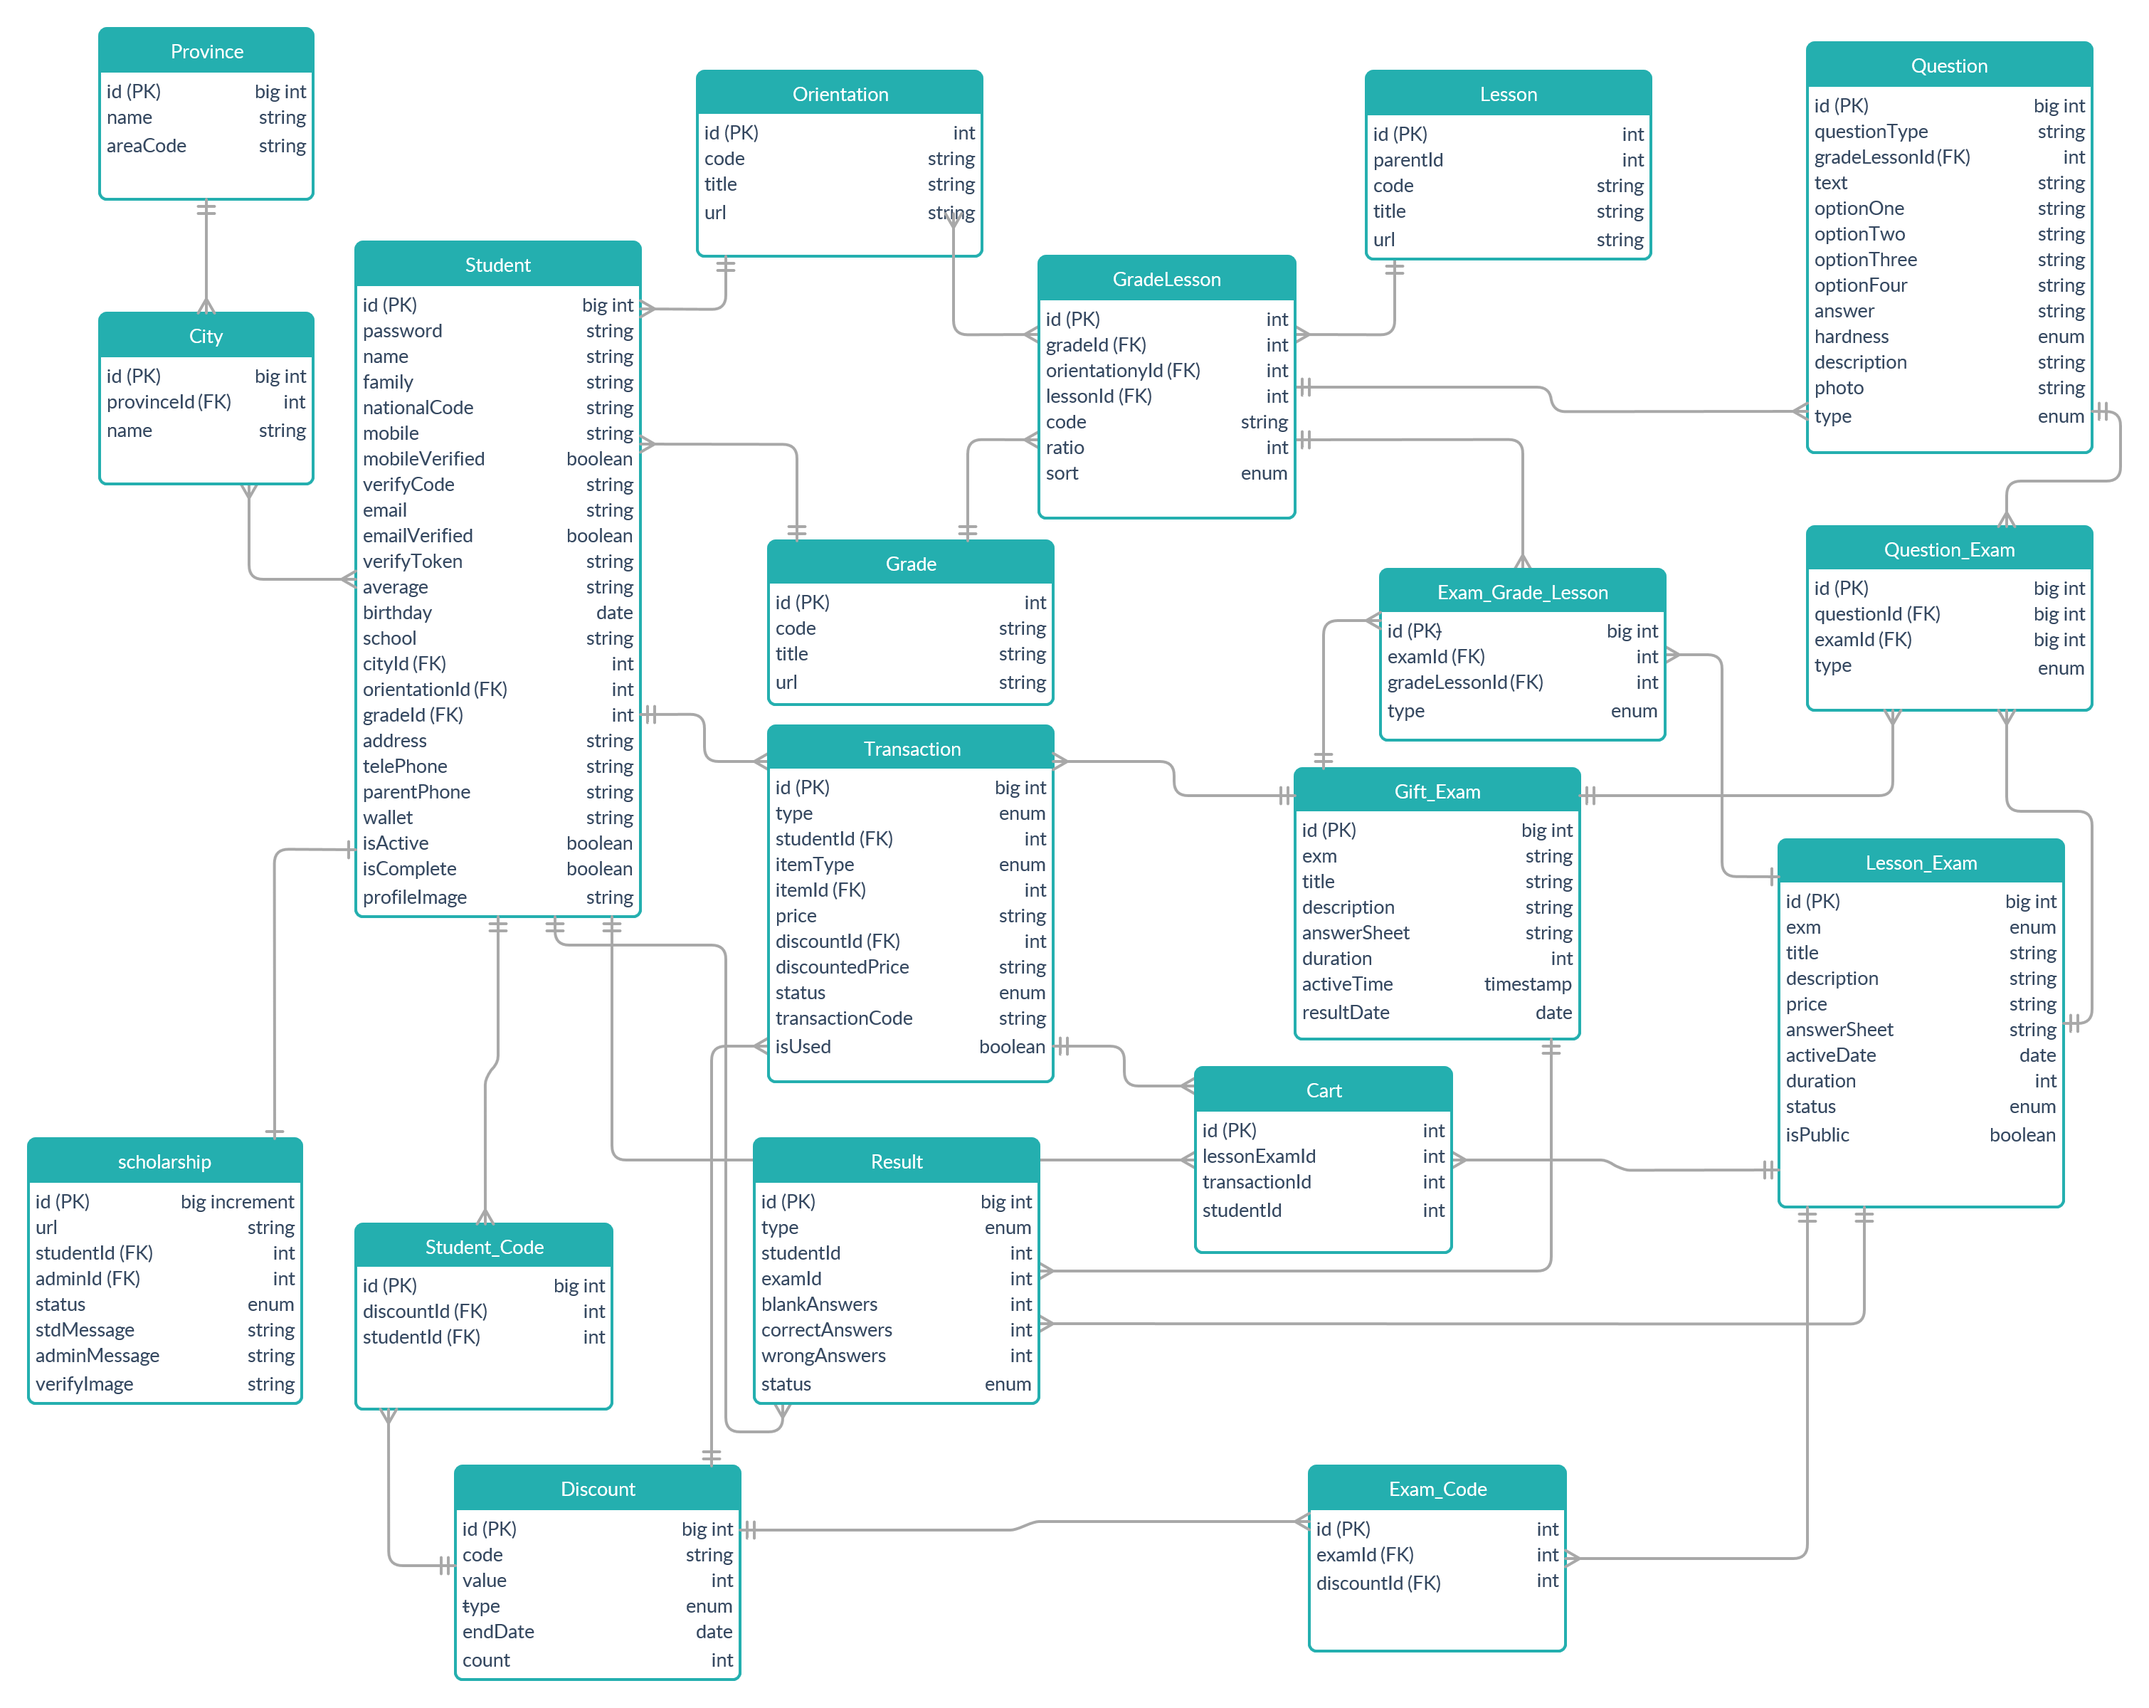
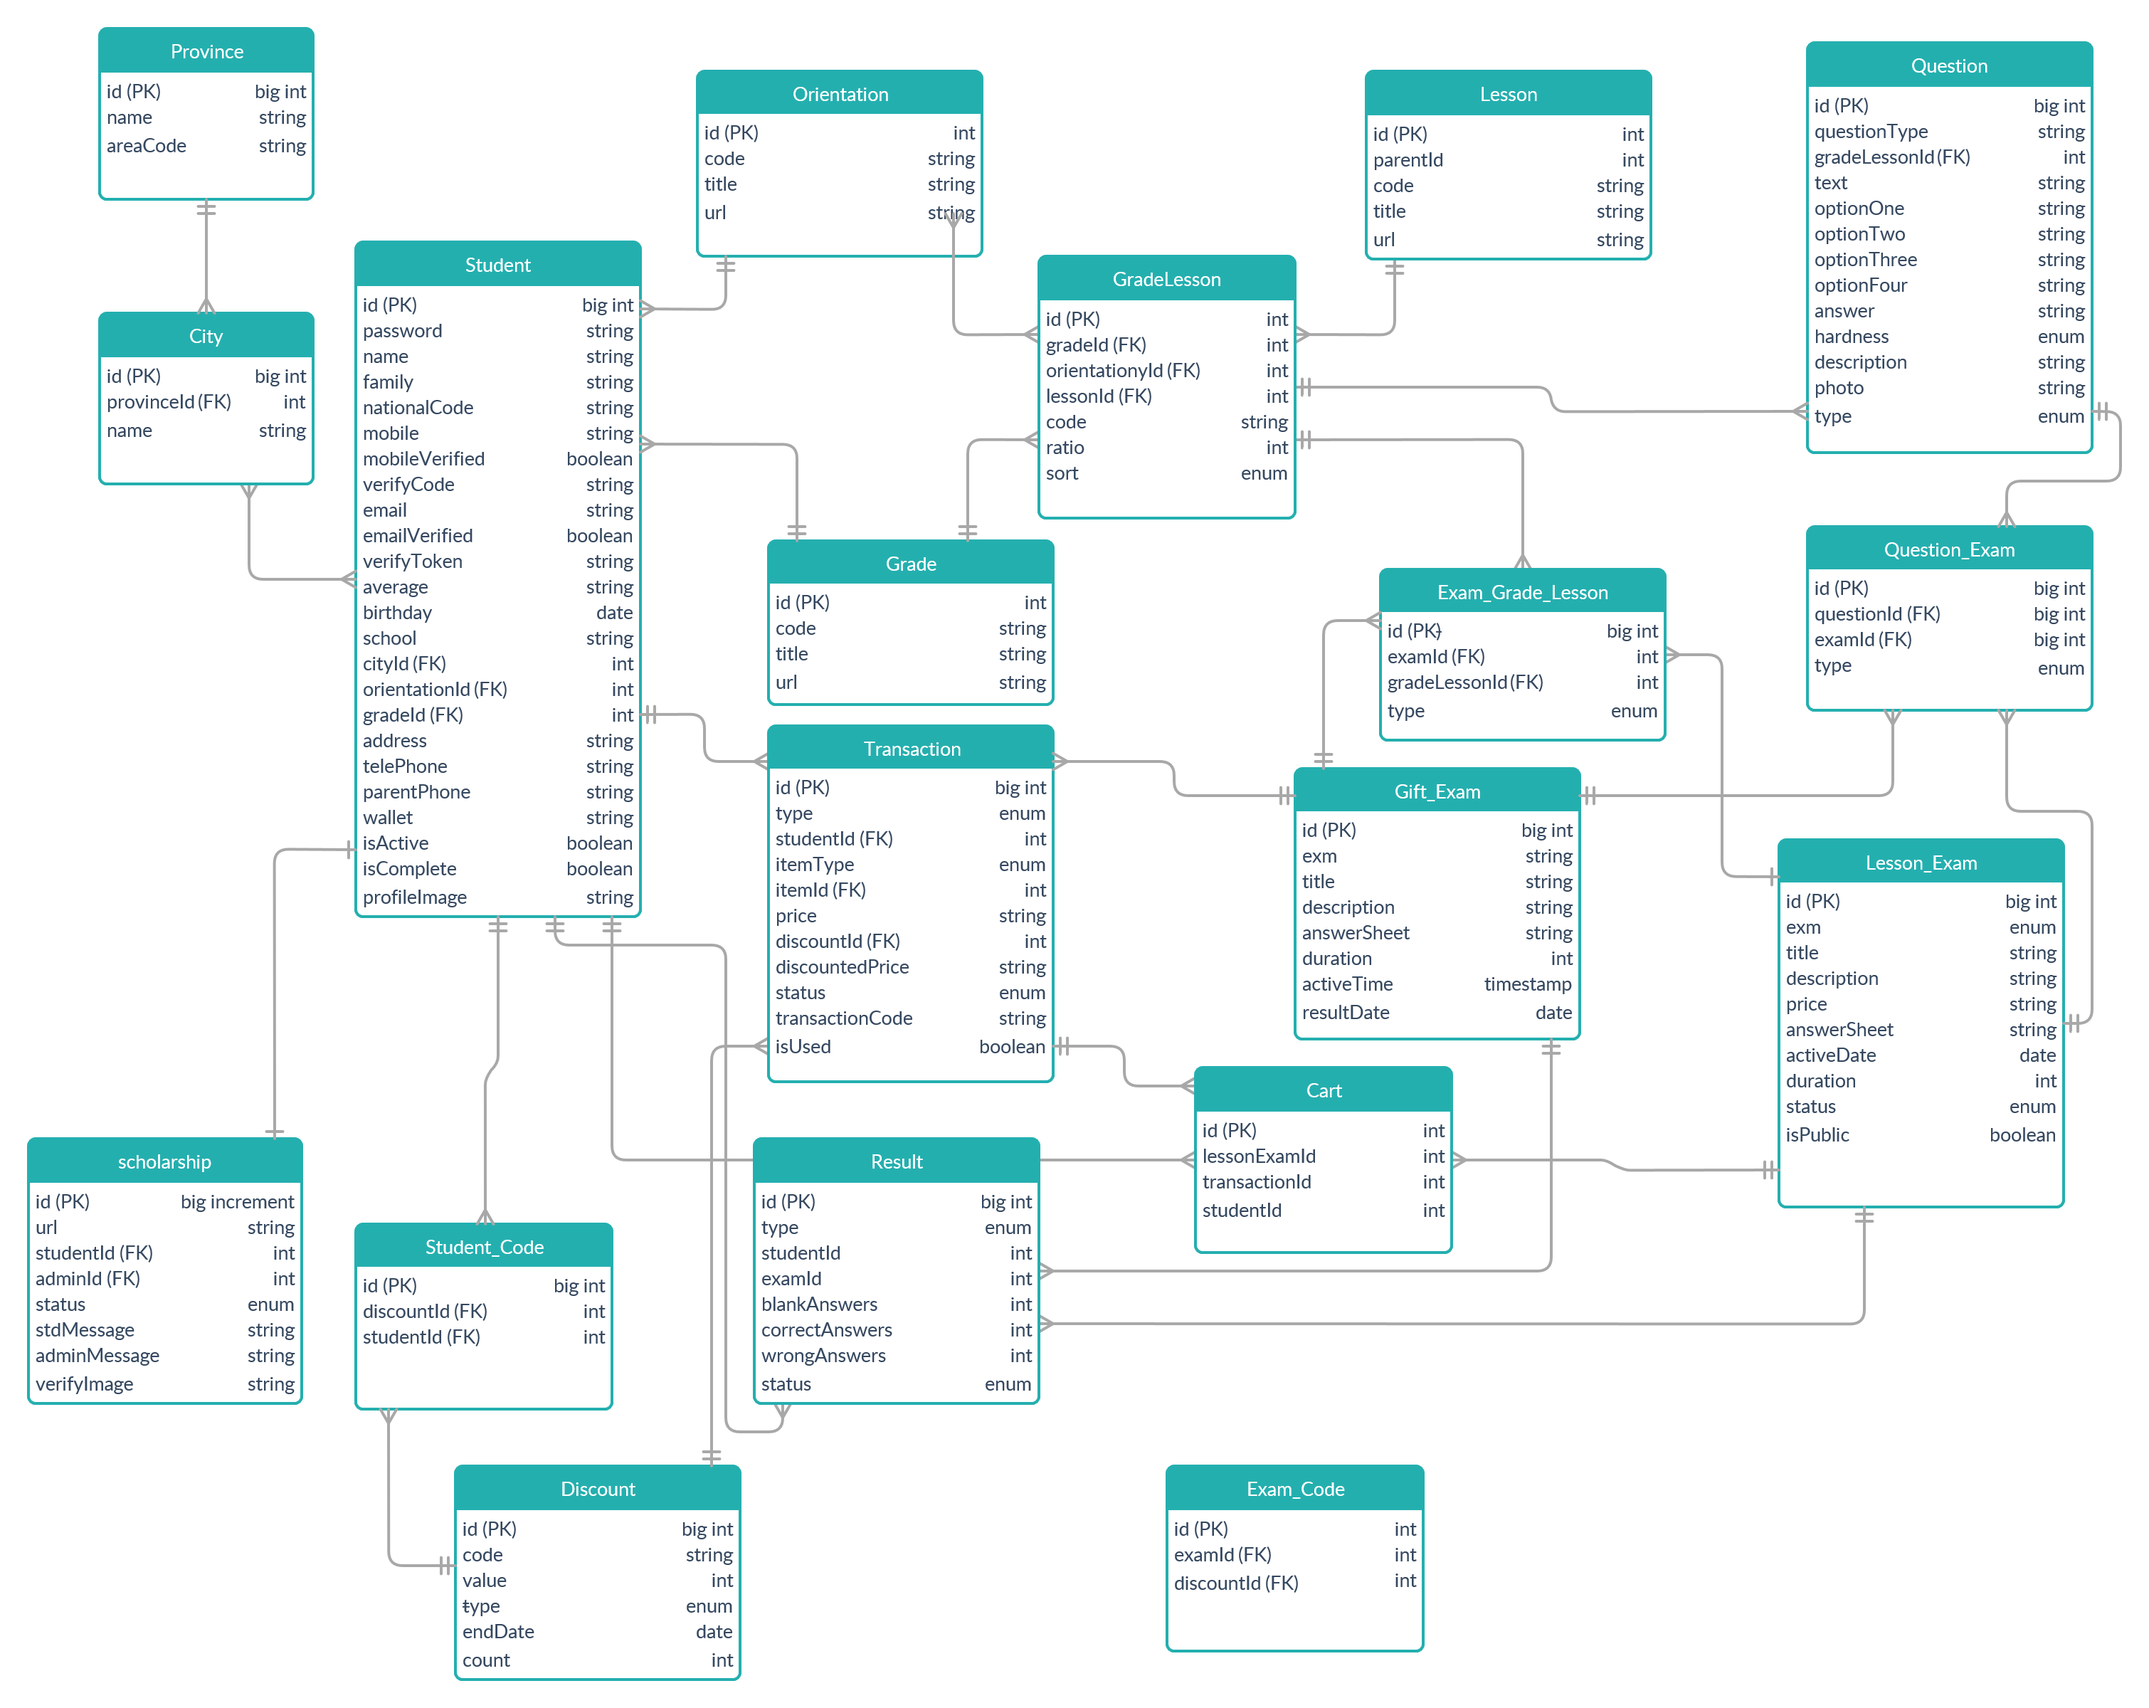
answersheet for exams

Changed region(s): [[0.5291, 0.8438, 0.747, 0.9375]]

diff --git a/app/Http/Controllers/Admin/Dashboard/LessonExamController.php b/app/Http/Controllers/Admin/Dashboard/LessonExamController.php
@@ -52,6 +52,7 @@
                                        'orientation'  => 'required',
                                        'gradeLessons' => 'required',
                                        'category'     => 'required',
+                                       'answersheet'  => 'mimes:pdf|max:2000',
                                        'price'        => 'required|integer|min:0',
                                        'description'  => 'nullable|string|max:300',
                                        'duration'     => 'required|integer|min:0',]);
@@ -72,6 +73,16 @@
             $lessonExam->save();
             //end activeDate section
 
+            if ($request->hasFile('answersheet'))
+            {
+                $answersheet = $request->file('answersheet');
+
+                Storage::disk('lessonExam')->put($lessonExam->id . '/answersheet', $answersheet);
+
+                $lessonExam->answersheet = $answersheet->hashName();
+
+                $lessonExam->update();
+            }
 
             // insert relation
             foreach ($request->input('gradeLessons') as $gradeLessonId)
@@ -107,6 +118,7 @@
                                        'activeDate'  => 'required',
                                        'price'       => 'required|integer|min:0',
                                        'description' => 'nullable|string|max:300',
+                                       'answersheet' => 'mimes:pdf|max:2000',
                                        'duration'    => 'required|integer|min:0']);
 
 
@@ -123,7 +135,15 @@
             //end activeDate section
             $lessonExam->duration = $request->input('duration');
 
+            if ($request->hasFile('answersheet'))
+            {
+                $answersheet = $request->file('answersheet');
 
+                Storage::disk('lessonExam')->put($lessonExam->id . '/answersheet', $answersheet);
+
+                $lessonExam->answersheet = $answersheet->hashName();
+
+            }
             //end answerSheet section
 
             $lessonExam->update();

diff --git a/app/Http/Controllers/Admin/Dashboard/GiftExamController.php b/app/Http/Controllers/Admin/Dashboard/GiftExamController.php
@@ -51,6 +51,7 @@
             $this->validate($request, ['title'        => 'required|string|max:20',
                                        'activeTime'   => 'required',
                                        'gradeLessons' => 'required',
+                                       'answersheet'  => 'mimes:pdf|max:2000',
                                        'description'  => 'nullable|string|max:300',
                                        'duration'     => 'nullable|integer|min:0',]);
 
@@ -75,6 +76,17 @@
 
             $giftExam->save();
             //end activeDate section
+
+            if ($request->hasFile('answersheet'))
+            {
+                $answersheet = $request->file('answersheet');
+
+                Storage::disk('giftExam')->put($giftExam->id . '/answersheet', $answersheet);
+
+                $giftExam->answersheet = $answersheet->hashName();
+
+                $giftExam->update();
+            }
 
             // insert relation
             foreach ($request->input('gradeLessons') as $gradeLessonId)
@@ -107,6 +119,7 @@
             $this->validate($request, ['title'       => 'required|string|max:20',
                                        'activeTime'  => 'required',
                                        'description' => 'nullable|string|max:300',
+                                       'answersheet'  => 'mimes:pdf|max:2000',
                                        'duration'    => 'nullable|integer|min:0',]);
 
 
@@ -129,6 +142,16 @@
             $giftExam->resultDate = $carbon->toDateTimeString();
 
             //end activeDate section
+
+            if ($request->hasFile('answersheet'))
+            {
+                $answersheet = $request->file('answersheet');
+
+                Storage::disk('giftExam')->put($giftExam->id . '/answersheet', $answersheet);
+
+                $giftExam->answersheet = $answersheet->hashName();
+
+            }
 
             $giftExam->update();
 

diff --git a/resources/views/admin/dashboard/giftExam/form.blade.php b/resources/views/admin/dashboard/giftExam/form.blade.php
@@ -171,7 +171,22 @@
                             </div>
 
                         @endif
-
+                        <div class="row">
+                            <div class="col-md-12 s-floatR">
+                                <div class="form-group">
+                                    <label>پاسخنامه تشریحی</label>
+                                    <div class="input-file-container">
+                                        <input class="input-file" name="answersheet" id="my-file" type="file" tabindex="12">
+                                        <label for="my-file" class="input-file-trigger text-center">
+                                            {{$modify == 1 && $giftExam->answersheet ? 'ویرایش پاسخ نامه تشریحی' : 'آپلود پاسخ نامه تشریحی'}}
+                                        </label>
+                                    </div>
+                                    <div class="invalid-feedback">
+                                        <small>{{ $errors->first('answersheet') }}</small>
+                                    </div>
+                                </div>
+                            </div>
+                            </div>
                         <div class="row">
                             <div class="col-md-12">
                                 <div class="form-group">

diff --git a/resources/views/admin/dashboard/lessonExam/form.blade.php b/resources/views/admin/dashboard/lessonExam/form.blade.php
@@ -199,6 +199,22 @@
                             @endif
 
                         </div>
+                        <div class="row">
+                        <div class="col-md-12 s-floatR">
+                            <div class="form-group">
+                                <label>پاسخنامه تشریحی</label>
+                                <div class="input-file-container">
+                                    <input class="input-file" name="answersheet" id="my-file" type="file" tabindex="12">
+                                    <label for="my-file" class="input-file-trigger text-center">
+                                        {{$modify == 1 && $lessonExam->answersheet ? 'ویرایش پاسخ نامه تشریحی' : 'آپلود پاسخ نامه تشریحی'}}
+                                    </label>
+                                </div>
+                                <div class="invalid-feedback">
+                                    <small>{{ $errors->first('answersheet') }}</small>
+                                </div>
+                            </div>
+                        </div>
+                        </div>
 
                         <div class="row">
                             <div class="col-md-12">

diff --git a/config/filesystems.php b/config/filesystems.php
@@ -58,7 +58,21 @@ return [
 		'question' => [
 			'driver'     => 'local',
 			'root'       => storage_path('app/public/questions'),
-			'url'        => env('APP_URL') . '/hamta/storage/app/public/question',
+			'url'        => env('APP_URL') . 'storage/app/public/questions',
+			'visibility' => 'public',
+        ],
+
+        'lessonExam' => [
+			'driver'     => 'local',
+			'root'       => storage_path('app/public/lessonExams'),
+			'url'        => env('APP_URL') . 'storage/app/public/lessonExams',
+			'visibility' => 'public',
+        ],
+
+        'giftExam' => [
+			'driver'     => 'local',
+			'root'       => storage_path('app/public/giftExams'),
+			'url'        => env('APP_URL') . 'storage/app/public/giftExams',
 			'visibility' => 'public',
 		],
 

diff --git a/app/model/LessonExam.php b/app/model/LessonExam.php
@@ -54,7 +54,6 @@
                 $model->examGradeLessons()->delete();
                 $model->questionExams()->delete();
                 $model->examDiscounts()->delete();
-                $model->examCodes()->delete();
                 Storage::disk('lessonExam')->deleteDirectory($model->id);
 
             });
@@ -114,14 +113,6 @@
 
             return $this->lessons();
         }
-
-
-        public function examCodes()
-        {
-
-            return $this->hasMany(ExamCode::class, 'examId');
-        }
-
 
         public function examDiscounts()
         {

diff --git a/database/migrations/2019_10_05_194430_create_gift_exam_table.php b/database/migrations/2019_10_05_194430_create_gift_exam_table.php
@@ -23,7 +23,7 @@
                 $table->string('exm')->nullable();
                 $table->string('title');
                 $table->string('description')->nullable();
-                $table->string('answerSheet')->nullable();
+                $table->string('answersheet')->nullable();
                 $table->integer('duration');
                 $table->timestamp('activeTime');
                 $table->date('resultDate');

diff --git a/database/migrations/2019_08_10_132304_create_lesson_exam_table.php b/database/migrations/2019_08_10_132304_create_lesson_exam_table.php
@@ -23,6 +23,7 @@
                 $table->string('exm')->nullable();
                 $table->string('title');
                 $table->string('description')->nullable();
+                $table->string('answersheet')->nullable();
                 $table->integer('price')->nullable()->default(0);
                 $table->date('activeDate')->nullable();
                 $table->integer('duration')->nullable();

diff --git a/resources/views/admin/dashboard/giftExam/exams.blade.php b/resources/views/admin/dashboard/giftExam/exams.blade.php
@@ -28,7 +28,7 @@
 								<td>{{$exam->exm}}</td>
 								<td>{{$exam->title}}</td>
 								<td>{{$exam->persianActiveTime}}</td>
-								<td>{{$exam->answerSheet ? 'دارد' : 'ندارد'}}</td>
+								<td>{{$exam->answersheet ? 'دارد' : 'ندارد'}}</td>
                                 <td>{{count($exam->questionExams)}}</td>
 								<td>
 

diff --git a/app/model/GiftExam.php b/app/model/GiftExam.php
@@ -44,7 +44,7 @@
 
                 $model->examGradeLessons()->delete();
                 $model->questionExams()->delete();
-                Storage::disk('giftExam')->deleteDirectory($model->id );
+                Storage::disk('giftExam')->deleteDirectory($model->id);
 
             });
         }
